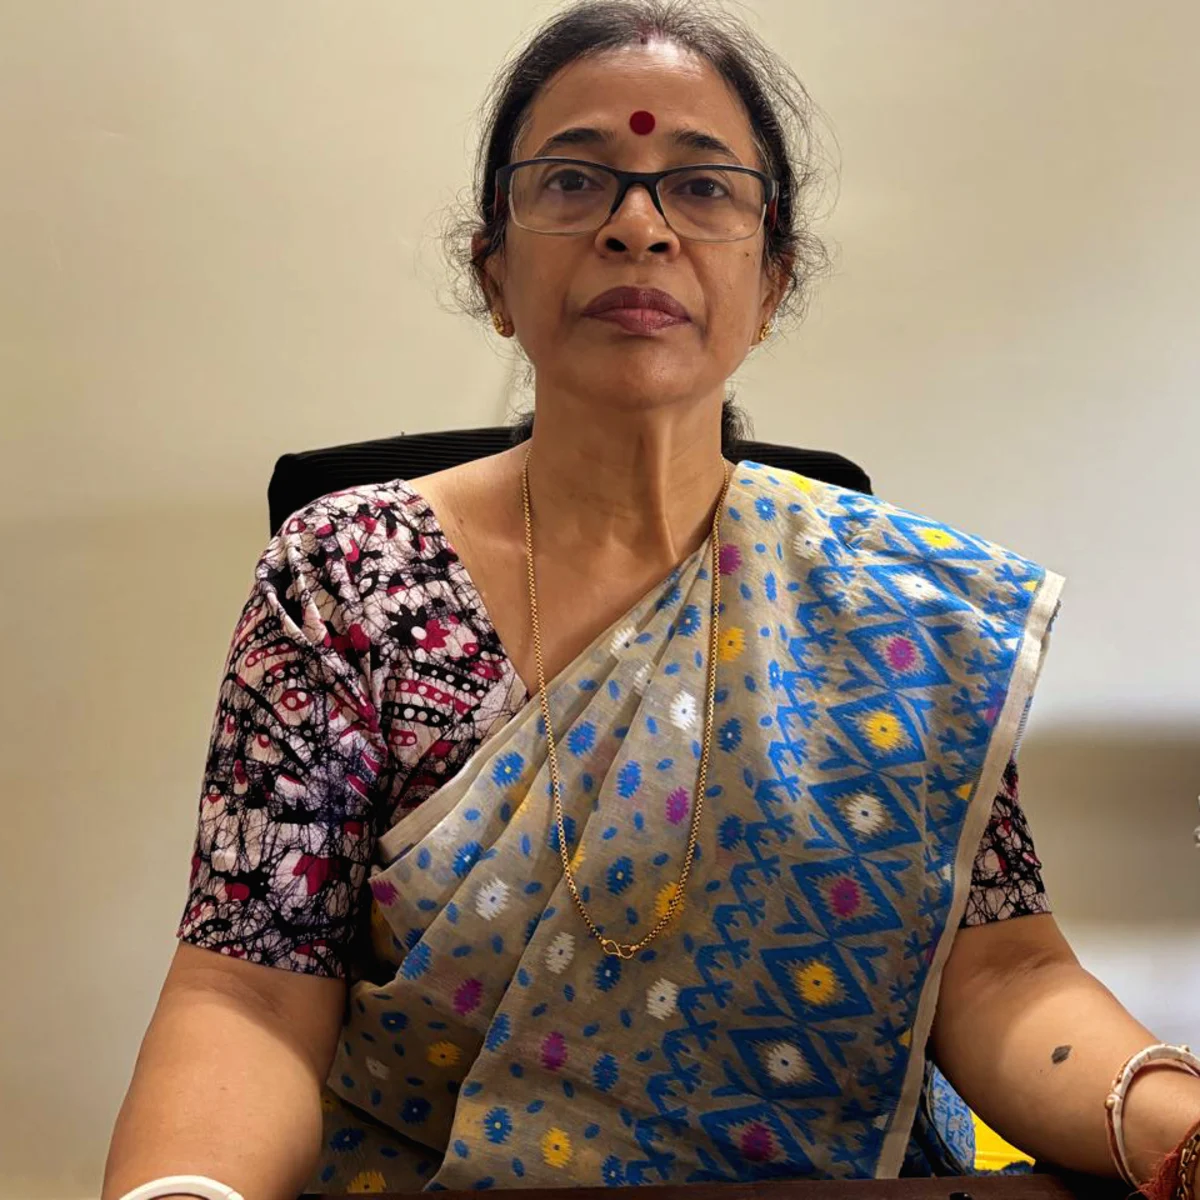
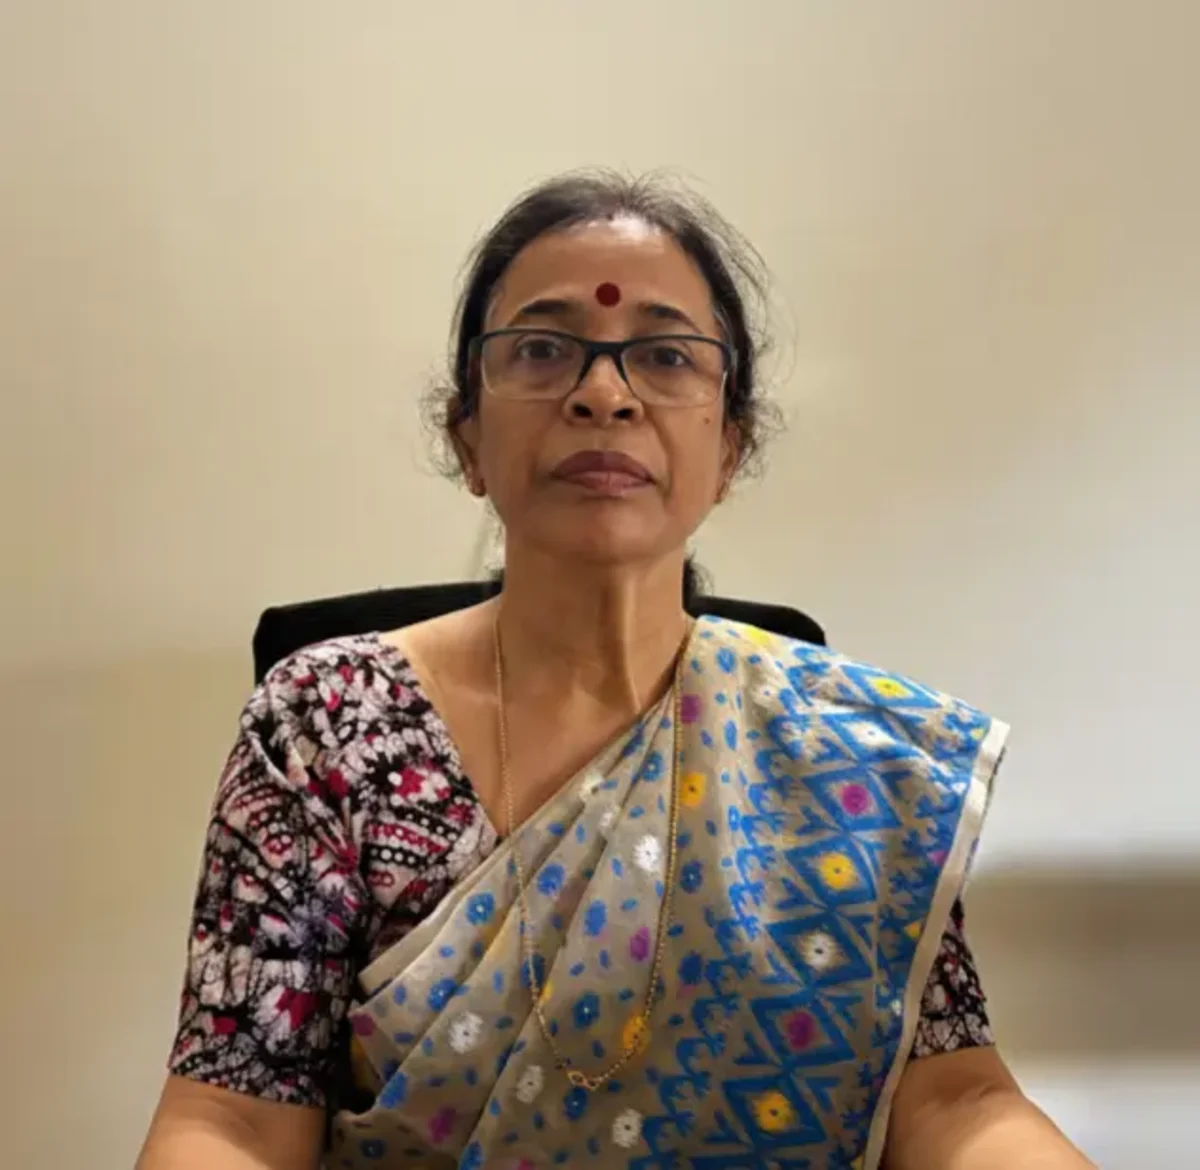
fix: Principal image correction along with styling issue of auto-cropping portrait:

diff --git a/assets/css/app.css b/assets/css/app.css
@@ -187,24 +187,34 @@
     background: linear-gradient(90deg, var(--ppnc-accent), var(--ppnc-primary));
   }
 
-  /* --- portrait wrapper & image (preserve pre-cropped square) --- */
+  /* Leadership portraits — preserve entire pre-cropped image (no clipping) */
+
+  /* Wrapper is a controlled square using aspect-ratio so layout is stable */
   .portrait-outer {
-    @apply overflow-hidden rounded-3xl shadow-md mx-auto;
+    @apply rounded-3xl shadow-md mx-auto;
     box-sizing: border-box;
     width: 100%;
     max-width: 480px;
+    aspect-ratio: 1 / 1;          /* keep square container */
+    overflow: hidden;             /* keep rounded corners but don't crop image content because we use contain */
     transition: transform .48s cubic-bezier(.2,.9,.25,1);
   }
+
+  /* Image fills the square, but uses contain so entire image is visible and centered */
   .portrait-img {
     display: block;
     width: 100%;
-    height: auto;               /* preserve intrinsic aspect */
-    object-fit: none;           /* respect pre-cropped image */
+    height: 100%;                 /* fill the wrapper square */
+    object-fit: contain;          /* show entire image (no crop) */
     object-position: center;
     border-radius: inherit;
     transition: transform .5s cubic-bezier(.2,.9,.25,1);
   }
-  .portrait-outer:hover .portrait-img { transform: scale(1.02); }
+
+  /* Slight, subtle scale on hover but still keep the whole image visible */
+  .portrait-outer:hover .portrait-img {
+    transform: scale(1.02);
+  }
 
   /* --- leader card --- */
   .leader-card {

diff --git a/content/about/vision/_index.md b/content/about/vision/_index.md
@@ -46,7 +46,7 @@ keywords:
 
           <p><strong>Vision:</strong> To establish Pranav as a global beacon of healthcare education, producing innovative, ethical, and highly skilled professionals who transform lives through compassionate care, addressing the unique healthcare challenges of Tripura and the Northeast.</p>
 
-          <p><strong>Mission:</strong> I am committed to leading the institution toward excellence by fostering strategic growth, integrating advanced medical technologies, and nurturing a culture of research and innovation — while prioritizing community health initiatives for Tripura’s rural and tribal areas.</p>
+          <p><strong>Mission:</strong> As Chairman cum Managing Director and President / Settlor of the Trust, my mission is to lead the institution toward excellence by fostering strategic growth, integrating advanced medical technologies, and nurturing a culture of research and innovation. I am committed to aligning our programs with global healthcare standards while prioritizing community health initiatives in Tripura’s rural and tribal areas. Through partnerships with local hospitals, the Government of Tripura, and health organizations, we equip students with the knowledge, skills, and values to address regional challenges such as infectious diseases and maternal care, creating a transformative impact on healthcare delivery in Northeast India and beyond. Together, let us forge a healthier future through education rooted in excellence and empathy.</p>
         </div>
       </div>
     </section>
@@ -71,11 +71,12 @@ keywords:
           <p class="lead-designation mt-1">CEO cum Administrative Officer</p>
           <p class="lead-previous mb-4">Retired TCS Officer</p>
 
-          <p>At PPNC we are dedicated to operational excellence, creating a nurturing environment for the next generation of healthcare leaders in Northeast India.</p>
+          <p>At Pranav Paramedical & Nursing College in Agartala, Tripura, we are dedicated to operational excellence, creating a nurturing environment for the next generation of healthcare leaders in Northeast India.</p>
 
-          <p><strong>Vision:</strong> To build a sustainable, inclusive institution that sets benchmarks in administrative efficiency and accessibility for Tripura's diverse communities.</p>
+          <p><strong>Vision:</strong> To build a sustainable, inclusive institution that sets benchmarks in administrative efficiency, supporting world-class paramedical and nursing education tailored to the diverse needs of Tripura’s communities.</p>
 
-          <p><strong>Mission:</strong> Leveraging my corporate experience to ensure seamless operations through strategic resource management, technology integration, and focused outreach to remote regions.</p>
+          <p><strong>Mission:</strong> As CEO cum Administrative Officer, leveraging my extensive experience as a retired TCS officer, my mission is to ensure seamless operations through innovative administrative practices, strategic resource management, and technology integration. I focus on enhancing accessibility for students from Tripura’s remote and tribal regions by streamlining admissions, upgrading facilities like simulation labs and hostels, and fostering inclusivity. Through collaboration with Tripura University, local health authorities, and stakeholders, we create a supportive ecosystem that empowers students and faculty to excel. Our goal is to drive institutional growth while contributing to Tripura’s healthcare landscape through efficient, community-focused administration.
+          Join us in shaping a legacy of impactful education and service in Agartala.</p>
         </div>
       </div>
     </section>
@@ -100,11 +101,12 @@ keywords:
           <p class="lead-designation mt-1">Principal</p>
           <p class="lead-previous mb-4">Retired Vice Principal, Agartala Government Nursing College</p>
 
-          <p>PPNC is committed to cultivating compassionate, skilled healthcare professionals who serve the unique needs of Northeast India.</p>
+          <p>Pranav Paramedical & Nursing College in Agartala, Tripura, is committed to cultivating compassionate, skilled healthcare professionals who excel in serving the unique needs of Northeast India.</p>
 
-          <p><strong>Vision:</strong> To be a premier institution redefining nursing and paramedical education through innovation, ethics, and holistic development.</p>
+          <p><strong>Vision:</strong> To be a premier institution redefining nursing and paramedical education through innovation, ethical practice, and holistic development, addressing health disparities in Tripura’s rural and indigenous communities.</p>
 
-          <p><strong>Mission:</strong> To foster an evidence-based, hands-on learning environment with strong community engagement and partnerships with local hospitals to prepare students for regional healthcare challenges.</p>
+          <p><strong>Mission:</strong> As Principal, drawing on my decades of experience as a retired Vice Principal from Agartala Government Nursing College, Tripura, my mission is to foster an academic environment that integrates evidence-based learning, hands-on training, and community engagement to prepare students for Tripura’s evolving healthcare needs. By leveraging advanced teaching methods, such as simulation-based training, and partnerships with local hospitals, we equip students with technical expertise and compassionate values. Our focus on interdisciplinary collaboration and outreach programs in tribal areas ensures graduates are ready to tackle regional challenges like preventive care and emergency response, driving positive change in Northeast India’s healthcare landscape.
+          Let us inspire and empower the healthcare leaders of tomorrow from the vibrant city of Agartala.</p>
         </div>
       </div>
     </section>
